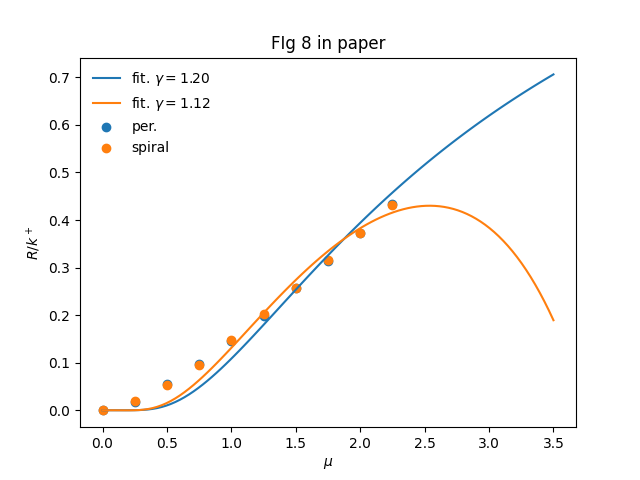
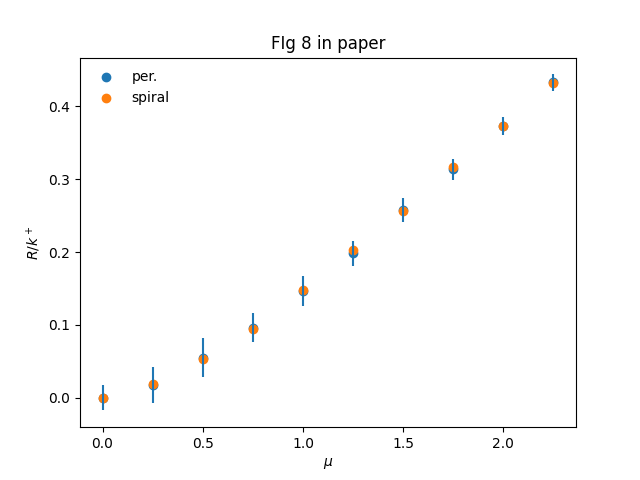
plots with fit and error

diff --git a/plotting_distrue.py b/plotting_distrue.py
@@ -8,7 +8,7 @@ import os.path as osp
 from scipy.optimize import curve_fit as cv
 
 
-simpath = 'Simulation Data\\dislocation false\\T 2'
+simpath = 'Simulation Data\\dislocation false\\T 4'
 path = osp.join(osp.dirname(__file__), simpath)
 
 files = [osp.join(path,file) for file in listdir(path)]
@@ -48,7 +48,7 @@ for simulation in simulations:
     rates2.append(rate)
     err2.append(err)
 
-simpath = 'Simulation Data\\dislocation true\\T 2'
+simpath = 'Simulation Data\\dislocation true\\T 4'
 path = osp.join(osp.dirname(__file__), simpath)
 
 files = [osp.join(path,file) for file in listdir(path)]
@@ -113,11 +113,12 @@ rate_an_spi = growth_analytical_perfect(mu_an, *copt0)
 plt.scatter(muTs2, rates2, label=r"per.")
 plt.scatter(muTsd, ratesd, label=r'spiral' )
 plt.plot(mu_an, rate_an_per, label=r"fit. $\gamma = $"+"{:.2f}".format(copt[0]))
-plt.plot(mu_an, rate_an_spi, label=r"fit. $\gamma = $"+"{:.2f}".format(copt0[0]))
-# plt.errorbar(muTs2, rates2, yerr=err2)
+# plt.plot(mu_an, rate_an_spi, label=r"fit. $\gamma = $"+"{:.2f}".format(copt0[0]))
+plt.errorbar(muTs2, rates2, yerr=err2, linestyle='None')
+plt.errorbar(muTsd, ratesd, yerr=errd, linestyle='None')
 plt.legend(frameon=False)
 plt.ylabel(r'$R/k^+$')
 plt.xlabel(r'$\mu$')
 plt.title('FIg 8 in paper')
-plt.savefig('comparing_spir_perfect_t=2_atoms_fits.png')
+plt.savefig('comparing_spir_perfect_t=4_atoms_fits.png')
 plt.show()

diff --git a/core_func.py b/core_func.py
@@ -7,6 +7,8 @@ kb = 1.380649e-23
 
 
 class Simulation:
+    """ Wrapping object for the saved simulations
+    """
     def __init__(self, file_string):
 
         data = np.load(file_string)
@@ -512,7 +514,7 @@ def find_rate(initial_state: np.ndarray,
 
     iter_elaps = final_iter - initial_iter
     rate = (final_height - init_height) / iter_elaps
-    error = np.sqrt(iter_elaps**2 * init_dev**2 + iter_elaps**2 * final_dev**2)
+    error = np.sqrt((1/iter_elaps)**2 * init_dev**2 + (1/iter_elaps)**2 * final_dev**2)
 
     return rate, error
 
@@ -545,6 +547,6 @@ def compute_rates(simulation: Simulation) -> list[np.ndarray,np.ndarray]:
 
     kplus = np.exp(mu)*evaporation_rate(3, temp)
     rates = rates * atoms
-    rates_err = rates_err
+    rates_err = rates_err /kplus /atoms
 
     return rates, rates_err
